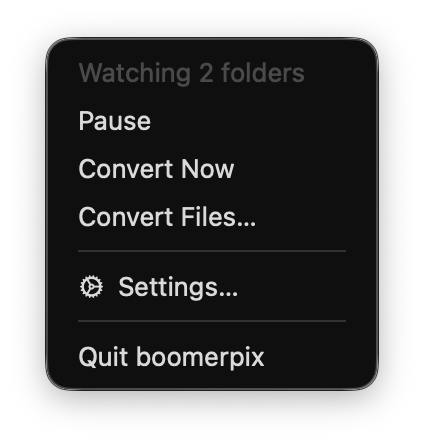
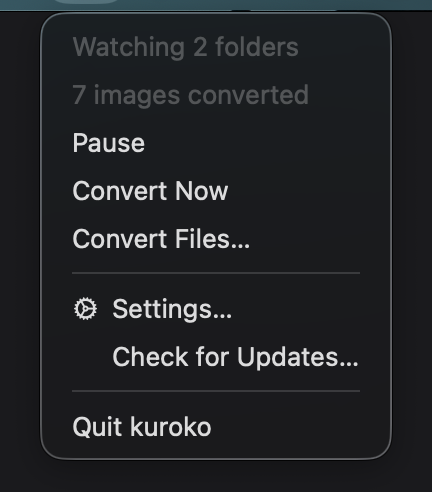
kuroko 0.4.1: real transparency check, refreshed screenshots
- Auto format scans the pixels (≤512px thumbnail) instead of trusting the
  container's has-alpha flag: opaque images with an alpha channel now become
  JPEG, only genuinely transparent ones stay PNG
- Landing screenshots re-shot from the current build (menu, settings, menu bar)
- README limitation note updated

diff --git a/Sources/kuroko/ImageConverter.swift b/Sources/kuroko/ImageConverter.swift
@@ -116,13 +116,20 @@ enum ImageConverter {
         guard frameCount > 0 else { throw ConvertError.undecodable }
 
         let properties = CGImageSourceCopyPropertiesAtIndex(source, 0, nil) as? [CFString: Any]
-        let hasAlpha = (properties?[kCGImagePropertyHasAlpha] as? Bool) ?? false
+        let declaresAlpha = (properties?[kCGImagePropertyHasAlpha] as? Bool) ?? false
         let animated = frameCount > 1
 
         let resolved: OutputFormat
         switch options.format {
         case .auto:
-            resolved = (animated && options.animatedToGIF) ? .gif : (hasAlpha ? .png : .jpeg)
+            if animated && options.animatedToGIF {
+                resolved = .gif
+            } else {
+                // The container flag only says an alpha channel exists; many WebP/HEIC
+                // files carry a fully opaque one. Check the pixels before choosing PNG.
+                let transparent = declaresAlpha && usesTransparency(source)
+                resolved = transparent ? .png : .jpeg
+            }
         default:
             resolved = options.format
         }
@@ -199,6 +206,49 @@ enum ImageConverter {
             throw ConvertError.encodeFailed
         }
         return ConversionOutcome(output: output, kind: resolved.fileExtension)
+    }
+
+    /// True if any pixel of the first frame is not fully opaque. Scans a downscaled
+    /// copy (longest side ≤ 512px) so the check stays cheap on large images.
+    /// Errs towards `true` when the pixels cannot be read, matching the old behaviour.
+    static func usesTransparency(_ source: CGImageSource) -> Bool {
+        let thumbOptions: [CFString: Any] = [
+            kCGImageSourceCreateThumbnailFromImageAlways: true,
+            kCGImageSourceThumbnailMaxPixelSize: 512,
+            kCGImageSourceShouldCacheImmediately: true,
+        ]
+        guard let image = CGImageSourceCreateThumbnailAtIndex(source, 0, thumbOptions as CFDictionary) else {
+            return true
+        }
+        switch image.alphaInfo {
+        case .none, .noneSkipFirst, .noneSkipLast:
+            return false
+        default:
+            break
+        }
+
+        let width = image.width, height = image.height
+        guard width > 0, height > 0 else { return true }
+        let bytesPerRow = width * 4
+        var pixels = [UInt8](repeating: 0, count: bytesPerRow * height)
+        let drawn = pixels.withUnsafeMutableBytes { buffer -> Bool in
+            guard let context = CGContext(
+                data: buffer.baseAddress, width: width, height: height, bitsPerComponent: 8,
+                bytesPerRow: bytesPerRow, space: CGColorSpaceCreateDeviceRGB(),
+                bitmapInfo: CGImageAlphaInfo.premultipliedLast.rawValue
+            ) else { return false }
+            context.draw(image, in: CGRect(x: 0, y: 0, width: width, height: height))
+            return true
+        }
+        guard drawn else { return true }
+
+        // RGBA: alpha is every 4th byte, starting at offset 3
+        var offset = 3
+        while offset < pixels.count {
+            if pixels[offset] != 255 { return true }
+            offset += 4
+        }
+        return false
     }
 
     private static func encodeGIF(_ source: CGImageSource, frameCount: Int, original: URL,

diff --git a/README.md b/README.md
@@ -143,8 +143,9 @@ Converts the given files in place and exits — handy for testing without the GU
 
 ## Notes & known limitations
 
-- "Has transparency" is judged from the image's alpha channel; a fully opaque image
-  saved with an alpha channel still becomes PNG rather than JPEG.
+- "Has transparency" is judged from the actual pixels (scanned on a ≤512px
+  downscale), so an opaque image that merely carries an alpha channel still
+  becomes JPEG. Semi-transparent pixels anywhere in the first frame mean PNG.
 - In keep-originals mode, already-converted files are remembered in memory; after an
   app restart, Convert Now skips files whose output already exists, but a folder
   event for an old original could reconvert it (producing a ` 2` copy).
